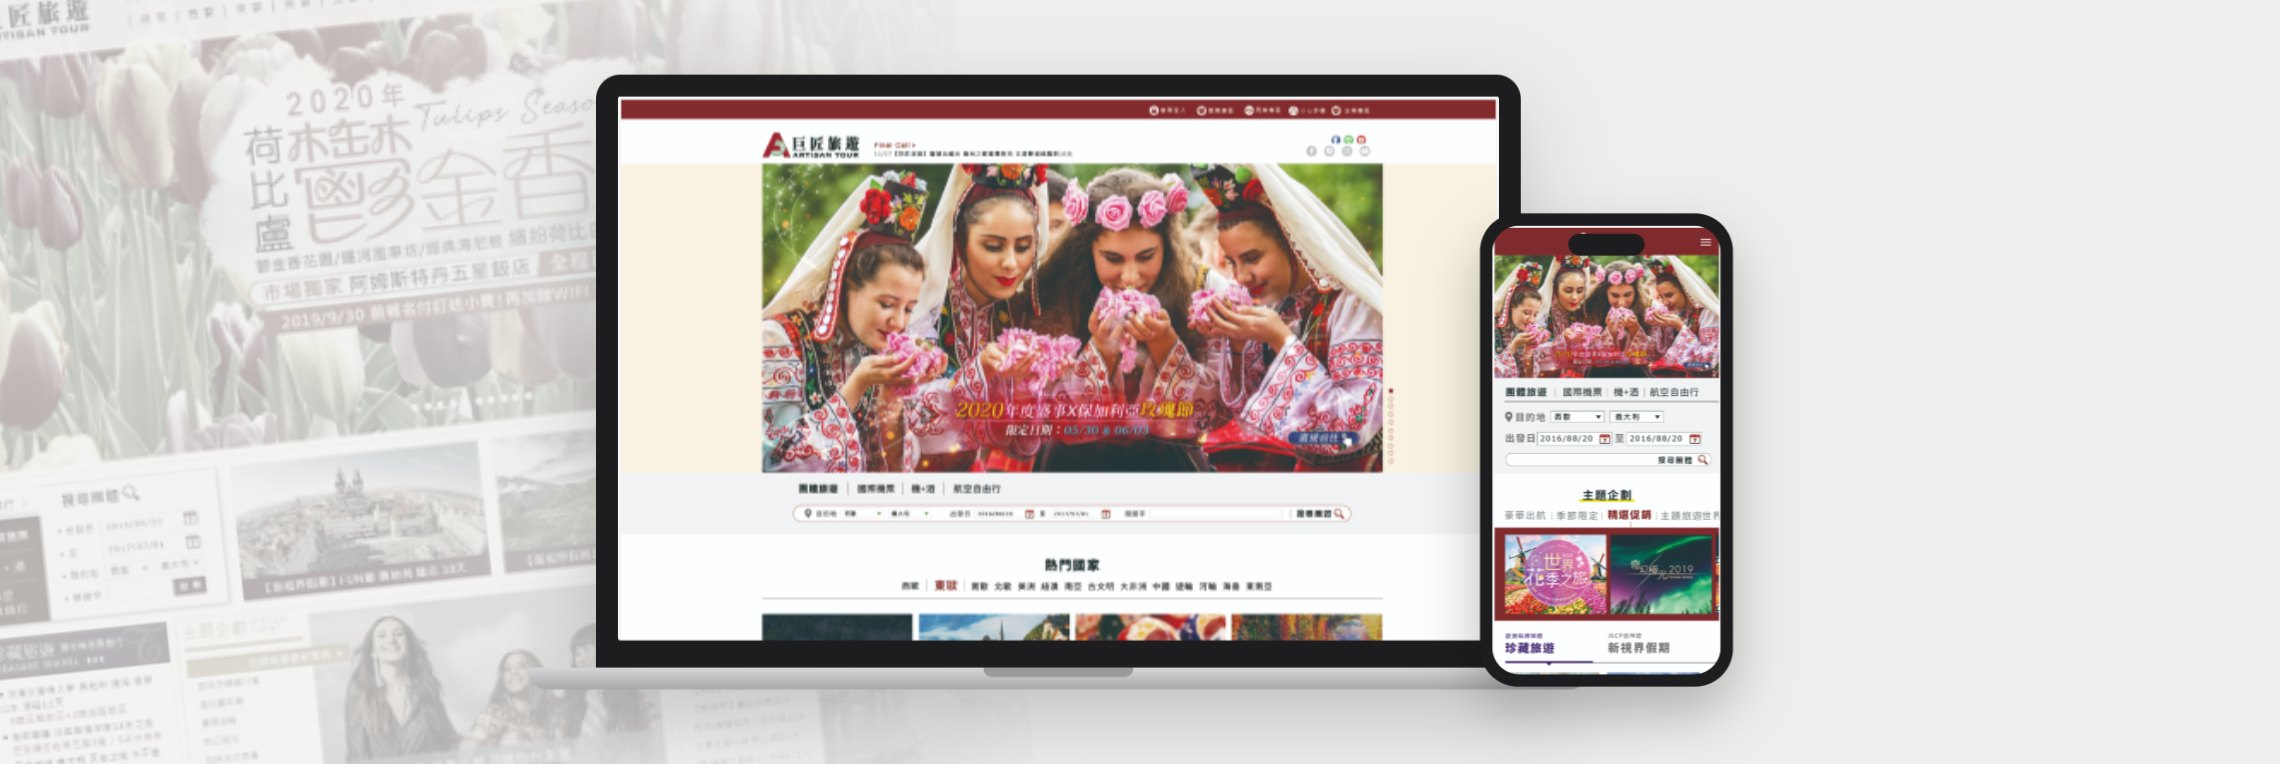
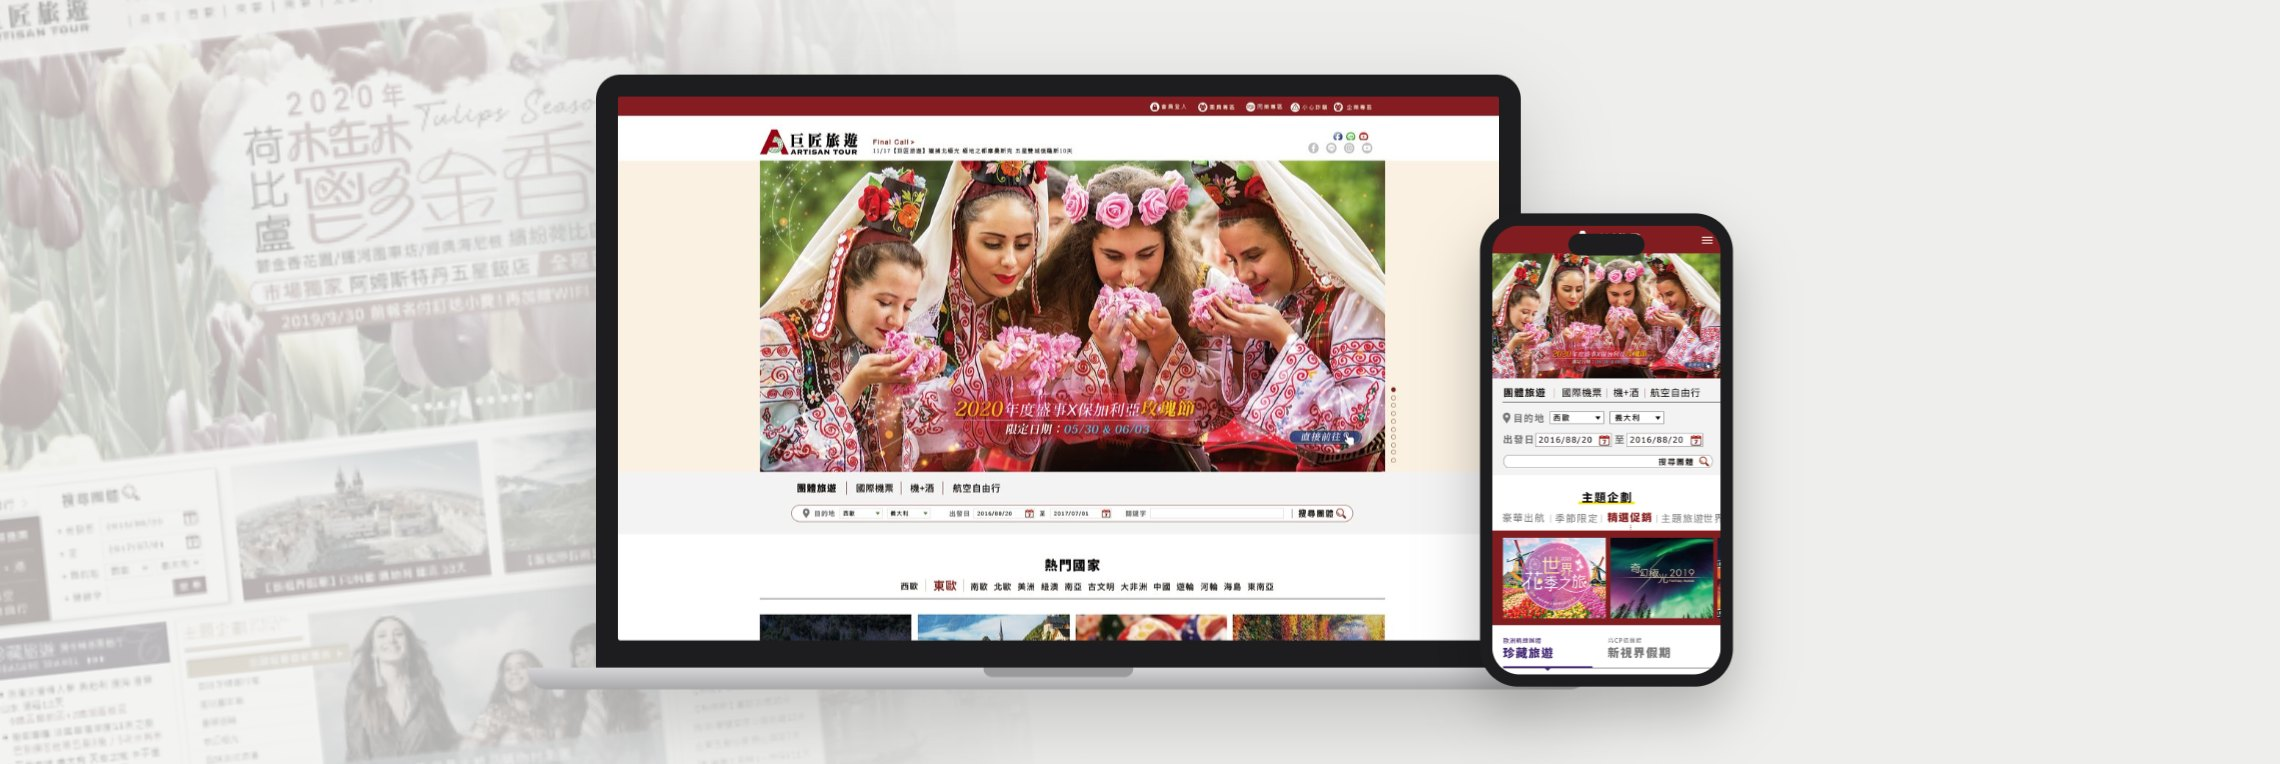
feat: sharper 巨匠 screenshots from the original files (sRGB), rebuilt key visual

diff --git a/src/case-giant.js b/src/case-giant.js
@@ -37,7 +37,7 @@ const sections = [
       ${lead('舊版首頁把所有資訊都放了上來；新版先解決「找行程」，再用一致的區塊模式，帶著使用者往下逛。')}
       <div class="case-grid case-grid--2" style="align-items: start">
         ${caseScroll({ src: `${img}/home-before.png`, alt: '改版前的巨匠旅遊首頁', caption: '改版前' })}
-        ${caseScroll({ src: `${img}/home-after-desktop.png`, alt: '改版後的巨匠旅遊首頁（電腦版）', caption: '改版後' })}
+        ${caseScroll({ src: `${img}/home-after-desktop.jpg`, alt: '改版後的巨匠旅遊首頁（電腦版）', caption: '改版後' })}
       </div>
       ${text('舊版首頁的問題很明顯：Banner 尺寸與風格不一、區塊之間沒有主次、文字密集難以掃讀，放到手機上更難使用。改版前我參與過這個版本的局部調整，也因此確定小修補解決不了根本問題，必須從架構重新規劃。')}
       ${text('新版把搜尋列放在主視覺正下方，團體旅遊、國際機票、機＋酒、航空自由行四種入口一次到位，一進首頁就能開始找行程。')}
@@ -66,7 +66,7 @@ const sections = [
       ${caseLabel('大館：改版前 → 改版後 REGION PAGE')}
       <div class="case-grid case-grid--2" style="align-items: start">
         ${caseScroll({ src: `${img}/pages-region-before.png`, alt: '大館改版前（東歐）', caption: '改版前' })}
-        ${caseScroll({ src: `${img}/pages-region-after.png`, alt: '大館改版後（東歐）', caption: '改版後' })}
+        ${caseScroll({ src: `${img}/pages-region-after.jpg`, alt: '大館改版後（東歐）', caption: '改版後' })}
       </div>
       ${text('拿掉塞滿主題 Banner 的左側欄，改成單欄，電腦與手機才能共用同一套結構。篩選從一排難點的小勾選框，改成「篩選地區（可複選）」的膠囊按鈕，選中即填色，手指也點得準。')}
       ${text('列表分成三層：行程名稱加粗、紅字亮點、價格放大並靠右對齊，掃一眼就能比價。促銷仍保留在「熱門推薦」輪播，但不再壓過搜尋，業務要的曝光與使用者要的找行程兩邊都顧到。')}
@@ -93,8 +93,8 @@ const sections = [
       ${text('區塊改為上下堆疊；商品卡片改成橫向滑動，分類標籤也能左右滑；服務入口收成一排圓形圖示。導覽選單收進右上角，展開後依地區列出，會員與專區入口固定在底部。')}
       ${caseLabel('首頁與導覽選單（手機版） MOBILE')}
       <div class="case-grid case-grid--2">
-        ${phone(`${img}/home-after-mobile.png`, '改版後首頁（手機版）')}
-        ${phone(`${img}/rwd-menu-mobile.png`, '手機版導覽選單展開')}
+        ${phone(`${img}/home-after-mobile.jpg`, '改版後首頁（手機版）')}
+        ${phone(`${img}/rwd-menu-mobile.jpg`, '手機版導覽選單展開')}
       </div>
       ${caseLabel('不只縮小：匠子旅遊誌的篩選 FILTERS')}
       <div class="case-grid" style="grid-template-columns: minmax(0, 1fr) 160px; align-items: start">

diff --git a/src/shared/works.js b/src/shared/works.js
@@ -2,7 +2,7 @@ import { BASE } from './layout.js'
 
 // Single source for project names and order: the home list and every case pager read from here
 export const works = [
-  { slug: 'giant', page: `${BASE}case-giant.html`, cover: `${BASE}images/giant/home-after-desktop.png`, title: '巨匠旅遊', subtitle: 'ARTISAN TOUR', tags: 'Banner / GDN / 網站UI / DM設計', period: '2016.12 – 2021.01' },
+  { slug: 'giant', page: `${BASE}case-giant.html`, cover: `${BASE}images/giant/home-after-desktop.jpg`, title: '巨匠旅遊', subtitle: 'ARTISAN TOUR', tags: 'Banner / GDN / 網站UI / DM設計', period: '2016.12 – 2021.01' },
   { slug: 'letao', title: '樂淘', subtitle: 'Letao', tags: 'Banner / GDN / 活動頁面 / 視覺優化 / Design-to-Code', period: '2021.01 - 至今(在職中)' },
   { slug: 'azaleah', page: `${BASE}case-azaleah.html`, cover: `${BASE}images/azaleah/hero-card-front.jpg`, title: '杜鵑花開了', subtitle: 'AZALEAH STUDIO', tags: '品牌識別設計 / LOGO / 名片設計', period: '2021.06 - 2022.12' },
   { slug: 'coucou', page: `${BASE}case-coucou.html`, cover: `${BASE}images/coucou/hand-drawn-competition.jpg`, title: 'Coucoubei', tags: 'Illustration × Character × GIF × Sticker × Personal Branding', period: '2026.07 - 至今(持續創作中)' },
